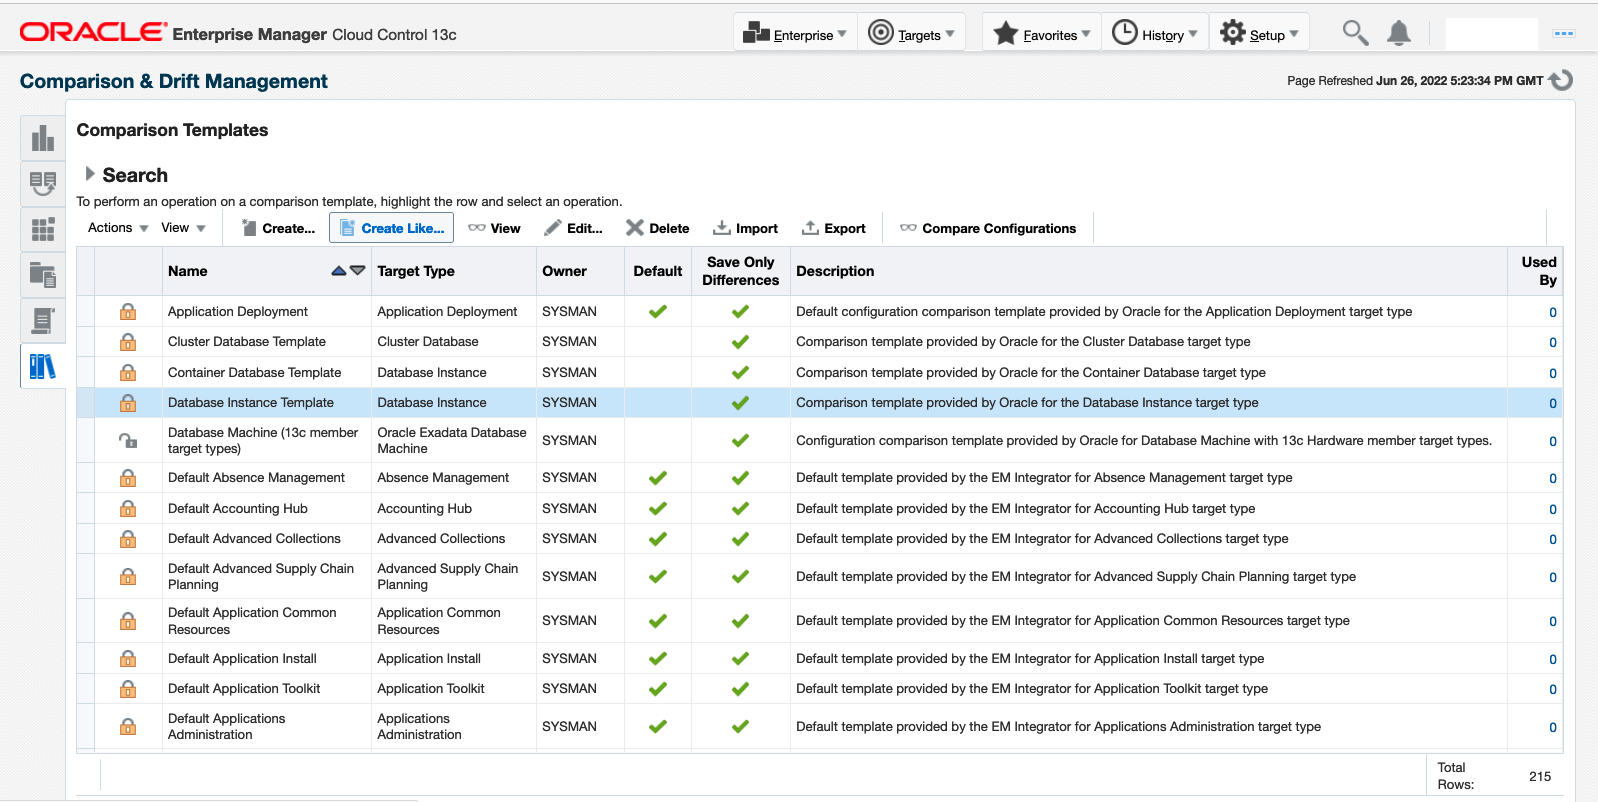
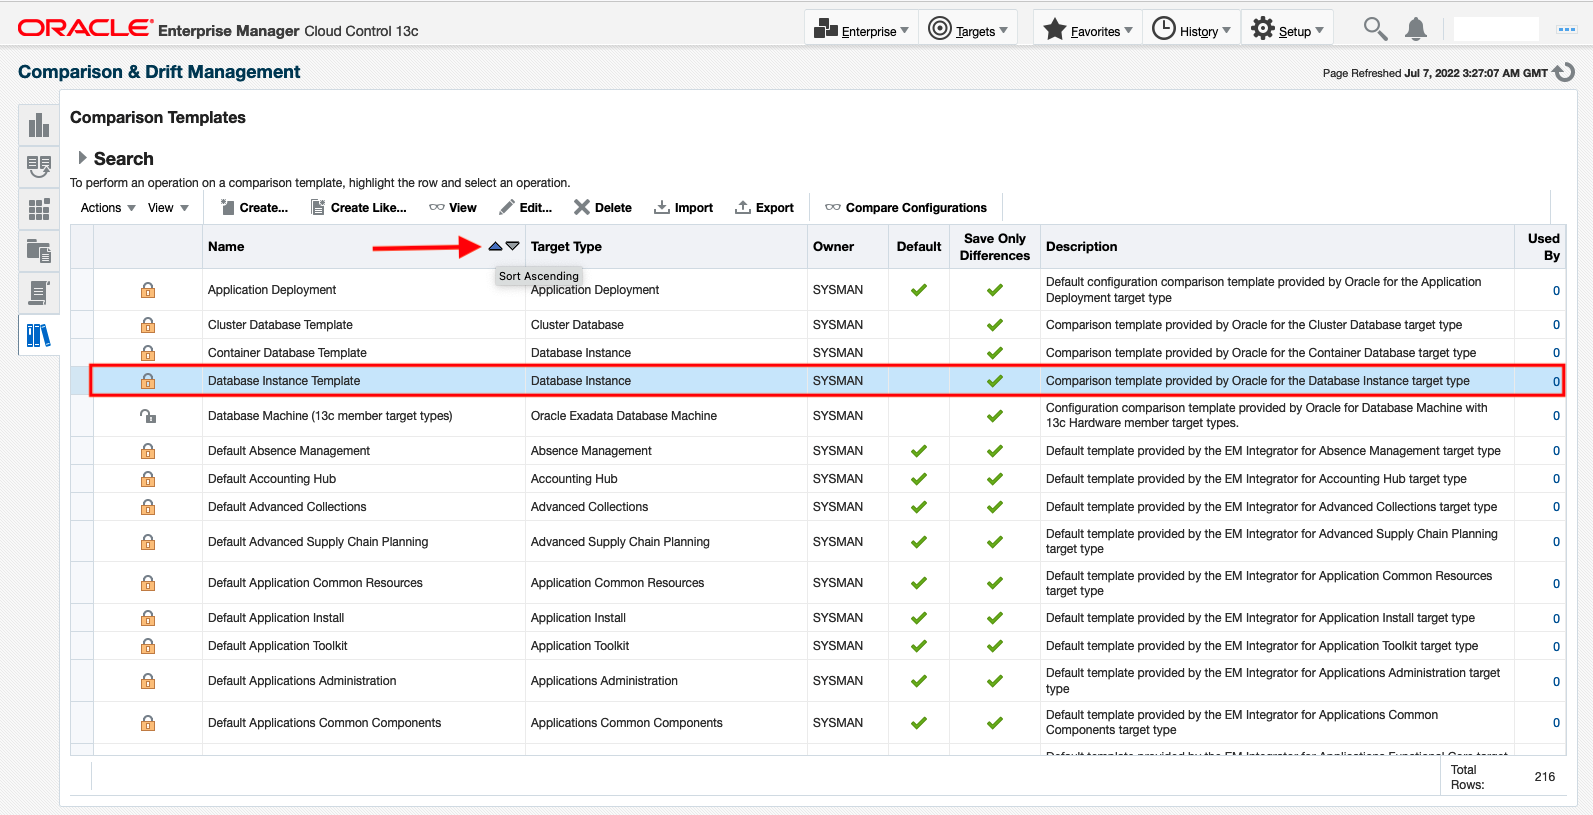
Screen capture updates

diff --git a/enterprise-manager/emcc-new/em-configuration-compliance-management/em-configuration-compliance-management.md b/enterprise-manager/emcc-new/em-configuration-compliance-management/em-configuration-compliance-management.md
@@ -208,19 +208,19 @@ In this workshop, you will learn about continuous configuration drift monitoring
 
 2.  Navigate to ***Enterprise >> Configuration >> Comparison & Drift Management***. Review the different types of comparisons supported.
 
-  ![](images/ecm2_one_time_database_comparison_menu.png " ")
+    ![](images/ecm2_One_Time_Database_Comparison_menu.png " ")
 
   Chose Templates left side of the panel of the Dashboard.
 
   ![](images/Comparion_and_Drift_Mgmt_Dashboard_Image.png " ")
 
-3.  Go to Templates library on the left panel, Clicking on Templates will navigate to Comparison Templates Page. **Sort Name Alphabetically** look for Database Instance Template as shown below.
+3.  Go to Templates library on the left panel, Clicking on Templates will navigate to Comparison Templates Page.
 
-  ![](images/Compare_and_Drift_template_Image_1.png " ")
+  ![](images/Compare_and_Drift_Template_Image_1.png " ")
 
-4.  With Database Instance Template highlighted, choose **Create Like** to create a copy of this template for further customization.
+4.  **Sort Name Alphabetically** look for Database Instance Template as shown below. With Database Instance Template highlighted, choose **Create Like** to create a copy of this template for further customization.
 
-  ![](images/Compare_and_Drift_template_Image_2.png " ")
+  ![](images/Compare_And_Drift_Template_Image_2.png " ")
 
    Provide a unique name to the new template and click OK.
 
